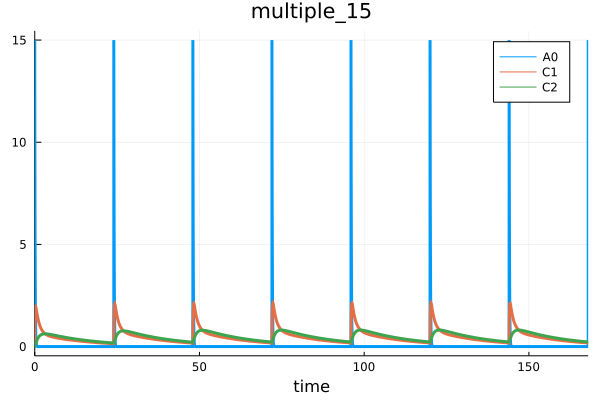
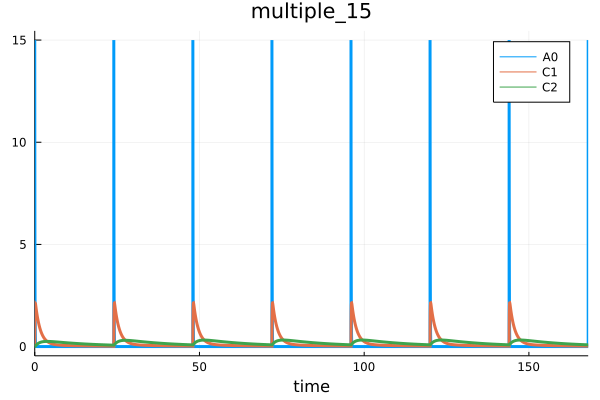
modify story_3

Changed region(s): [[0.06, 0.75, 0.99, 0.87], [0.84, 0.69, 0.87, 0.72]]

diff --git a/docs/src/basics/overview.md b/docs/src/basics/overview.md
@@ -41,9 +41,9 @@ v_distr @Reaction {actors: C1 = C2} := Q * (C1 - C2);
 
 // Parameters
 dose @Const = 20;
-kabs @Const = 10;
-kel @Const = 0.2;
-Q @Const = 3.2;
+kabs @Const = 20;
+kel @Const = 0.5;
+Q @Const = 1.0;
 
 // single dose event
 sw1 @TimeSwitcher {start: 0};
@@ -425,16 +425,19 @@ The whole solution can also be translated into `DataFrame`.
 res_df = DataFrame(res)
 ```
 ```julia
-964×6 DataFrame
- Row │ t             A0           C1           C2           scope   condition   
-     │ Float64       Float64      Float64      Float64      Symbol  Symbol      
-─────┼──────────────────────────────────────────────────────────────────────────
-   1 │  0.0           0.0         0.0          0.0          ode_    multiple_15
-   2 │  0.0          15.0         0.0          0.0          sw2     multiple_15
-  ⋮  │      ⋮             ⋮            ⋮            ⋮         ⋮          ⋮
- 963 │ 47.9581        4.55058e-7  0.201956     0.2561       ode_    dose_100
- 964 │ 48.0           2.99302e-7  0.201417     0.255416     ode_    dose_100
-                                                                960 rows omitted
+1031×6 DataFrame
+  Row │ t             A0            C1           C2           scope   condition   
+      │ Float64       Float64       Float64      Float64      Symbol  Symbol      
+──────┼───────────────────────────────────────────────────────────────────────────
+    1 │  0.0           0.0          0.0          0.0          ode_    multiple_15
+    2 │  0.0          15.0          0.0          0.0          sw2     multiple_15
+    3 │  3.33311e-6   14.999        0.000158714  2.49537e-11  ode_    multiple_15
+    4 │  3.66642e-5   14.989        0.00174525   3.0187e-9    ode_    multiple_15
+  ⋮   │      ⋮             ⋮             ⋮            ⋮         ⋮          ⋮
+ 1029 │ 45.1252       -3.9532e-26   0.0292381    0.108637     ode_    dose_100
+ 1030 │ 47.5238        3.29325e-27  0.0247767    0.0920607    ode_    dose_100
+ 1031 │ 48.0          -6.75365e-28  0.0239764    0.089087     ode_    dose_100
+                                                                 1024 rows omitted
 ```
 
 User can work with the solution component by using indexing by component number, like here `res[1]` or by condition id `res[:dose_1]`.
@@ -445,27 +448,19 @@ Any component can also be transformed into `DataFrame`.
 res_df1 = DataFrame(res[1])
 ```
 ```julia
-626×5 DataFrame
- Row │ t              A0           C1           C2           scope  
-     │ Float64        Float64      Float64      Float64      Symbol 
-─────┼──────────────────────────────────────────────────────────────
-   1 │   0.0           0.0         0.0          0.0          ode_
-   2 │   0.0          15.0         0.0          0.0          sw2
-   3 │   6.66622e-6   14.999       0.000158714  1.59703e-10  ode_
-   4 │   7.33284e-5   14.989       0.00174523   1.93194e-8   ode_
-   5 │   0.000739951  14.8894      0.0175482    1.96242e-6   ode_
-   6 │   0.00527893   14.2287      0.122199     9.82366e-5   ode_
-   7 │   0.0141793    13.017       0.313149     0.000686265  ode_
-   8 │   0.027481     11.3957      0.566335     0.00245837   ode_
-  ⋮  │       ⋮             ⋮            ⋮            ⋮         ⋮
- 620 │ 166.734         4.55058e-7  0.193317     0.245144     ode_
- 621 │ 167.085         4.55058e-7  0.189038     0.239719     ode_
- 622 │ 167.436         4.55058e-7  0.184854     0.234413     ode_
- 623 │ 167.786         4.55058e-7  0.180762     0.229224     ode_
- 624 │ 168.0           7.00046e-8  0.178314     0.22612      ode_
- 625 │ 168.0           7.00046e-8  0.178314     0.22612      ode_
- 626 │ 168.0          15.0         0.178314     0.22612      sw2
-                                                    611 rows omitted
+702×6 DataFrame
+ Row │ t              A0            C1           C2           scope   condition   
+     │ Float64        Float64       Float64      Float64      Symbol  Symbol      
+─────┼────────────────────────────────────────────────────────────────────────────
+   1 │   0.0           0.0          0.0          0.0          ode_    multiple_15
+   2 │   0.0          15.0          0.0          0.0          sw2     multiple_15
+   3 │   3.33311e-6   14.999        0.000158714  2.49537e-11  ode_    multiple_15
+   4 │   3.66642e-5   14.989        0.00174525   3.0187e-9    ode_    multiple_15
+  ⋮  │       ⋮             ⋮             ⋮            ⋮         ⋮          ⋮
+ 700 │ 168.0           2.79899e-18  0.0232934    0.0865488    ode_    multiple_15
+ 701 │ 168.0           2.79899e-18  0.0232934    0.0865488    ode_    multiple_15
+ 702 │ 168.0          15.0          0.0232934    0.0865488    sw2     multiple_15
+                                                                  695 rows omitted
 ```
 
 The component can also be plotted.
@@ -499,18 +494,23 @@ To transform everything into `DataFrame`
 mc_df = DataFrame(mc_res)
 ```
 ```julia
-998000×7 DataFrame
+946000×7 DataFrame
     Row │ iter   t             A0           C1           C2           scope   condition   
         │ Int64  Float64       Float64      Float64      Float64      Symbol  Symbol      
 ────────┼─────────────────────────────────────────────────────────────────────────────────
-      1 │     1   0.0           0.0         0.0          0.0          ode_    multiple_15
+      1 │     1   0.0           0.0         0.0          0.0          ode_    multiple_15 
       2 │     1   0.0          15.0         0.0          0.0          sw2     multiple_15
-      3 │     1   6.66014e-6   14.999       0.000158714  1.59557e-10  ode_    multiple_15
+      3 │     1   6.67001e-6   14.999       0.000158714  4.99357e-11  ode_    multiple_15
+      4 │     1   7.33701e-5   14.989       0.00174525   6.04082e-9   ode_    multiple_15
+      5 │     1   0.000740371  14.8894      0.0175505    6.13689e-7   ode_    multiple_15
+      6 │     1   0.00602741   14.1231      0.139042     3.99353e-5   ode_    multiple_15
    ⋮    │   ⋮         ⋮             ⋮            ⋮            ⋮         ⋮          ⋮
- 997998 │  1000  47.5835        4.55058e-7  0.210559     0.266633     ode_    dose_100
- 997999 │  1000  47.9215        4.55058e-7  0.206089     0.260971     ode_    dose_100
- 998000 │  1000  48.0           2.01668e-7  0.205065     0.259675     ode_    dose_100
-                                                                       997994 rows omitted
+ 945996 │  1000  46.6664        4.55058e-7  0.247023     0.484307     ode_    dose_100
+ 945997 │  1000  47.0172        4.55058e-7  0.243049     0.476516     ode_    dose_100
+ 945998 │  1000  47.3681        4.55059e-7  0.239139     0.46885      ode_    dose_100
+ 945999 │  1000  47.719         4.55058e-7  0.235292     0.461307     ode_    dose_100
+ 946000 │  1000  48.0           1.28404e-7  0.232256     0.455355     ode_    dose_100
+                                                                       945989 rows omitted
 ```
 
 To plot everything use `plot`
@@ -568,7 +568,6 @@ Now let's run fitting.
 to_fit = [
     :kabs => 8.0,
     :Q => 4.0,
-    :Vol1 => 6.0,
     :kel => 2.2,
     :sigma1 => 0.1,
     :sigma2 => 0.1,
@@ -580,9 +579,9 @@ fit_res = fit(p, to_fit)
 +---------------------------------------------------------------------------
 | Fitting results:
 |   status: FTOL_REACHED
-|   optim: [:kabs => 9.70386210514378, :Q => 3.1637539835052744, :Vol1 => 3.4105990826839747, :kel => 0.2039430020237252, :sigma1 => 0.08224608344682492, :sigma2 => 0.06737692009766567, :sigma3 => 0.09149685023958987]. Access optim estimate with `optim(f::FitResults)`
-|   objective function value: 4164.535216417519. Access objective value with `obj(f::FitResults)`
-|   number of objective function evaluations: 170
+|   optim: [:kabs => 9.664612290142436, :Q => 3.182280353785782, :kel => 0.20333675237278281, :sigma1 => 0.20073592014870978, :sigma2 => 0.15748031874469834, :sigma3 => 0.11672689231044918]. Access optim estimate with `optim(f::FitResults)`
+|   objective function value: 4164.493819852298. Access objective value with `obj(f::FitResults)`
+|   number of objective function evaluations: 134
 +---------------------------------------------------------------------------
 ```
 
@@ -592,14 +591,13 @@ To get the list of optimal parameters values we should use `optim` function.
 optim(fit_res)
 ```
 ```julia
-8-element Vector{Pair{Symbol, Float64}}:
-   :kabs => 9.70386210514378
-      :Q => 3.1637539835052744
-   :Vol1 => 3.4105990826839747
-    :kel => 0.2039430020237252
- :sigma1 => 0.08224608344682492
- :sigma2 => 0.06737692009766567
- :sigma3 => 0.09149685023958987
+6-element Vector{Pair{Symbol, Float64}}:
+   :kabs => 9.664612290142436
+      :Q => 3.182280353785782
+    :kel => 0.20333675237278281
+ :sigma1 => 0.20073592014870978
+ :sigma2 => 0.15748031874469834
+ :sigma3 => 0.11672689231044918
 ```
 
 You can simulate and plot results with the following code.
